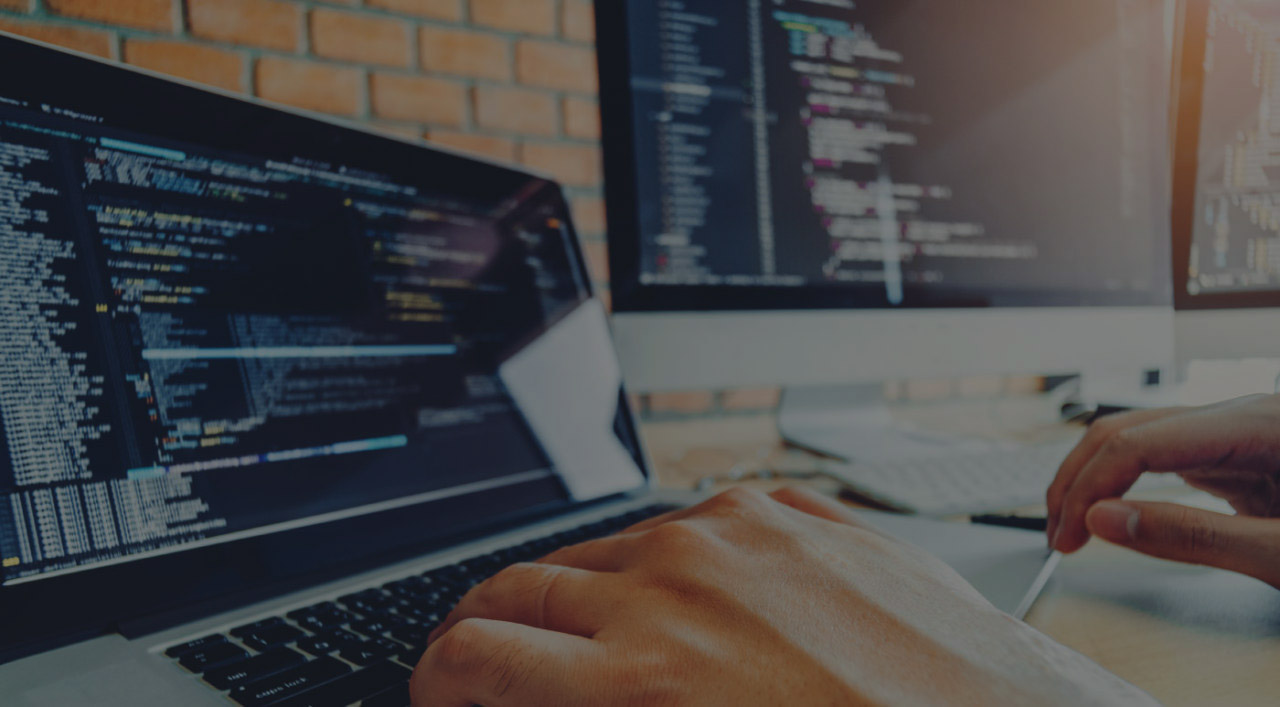
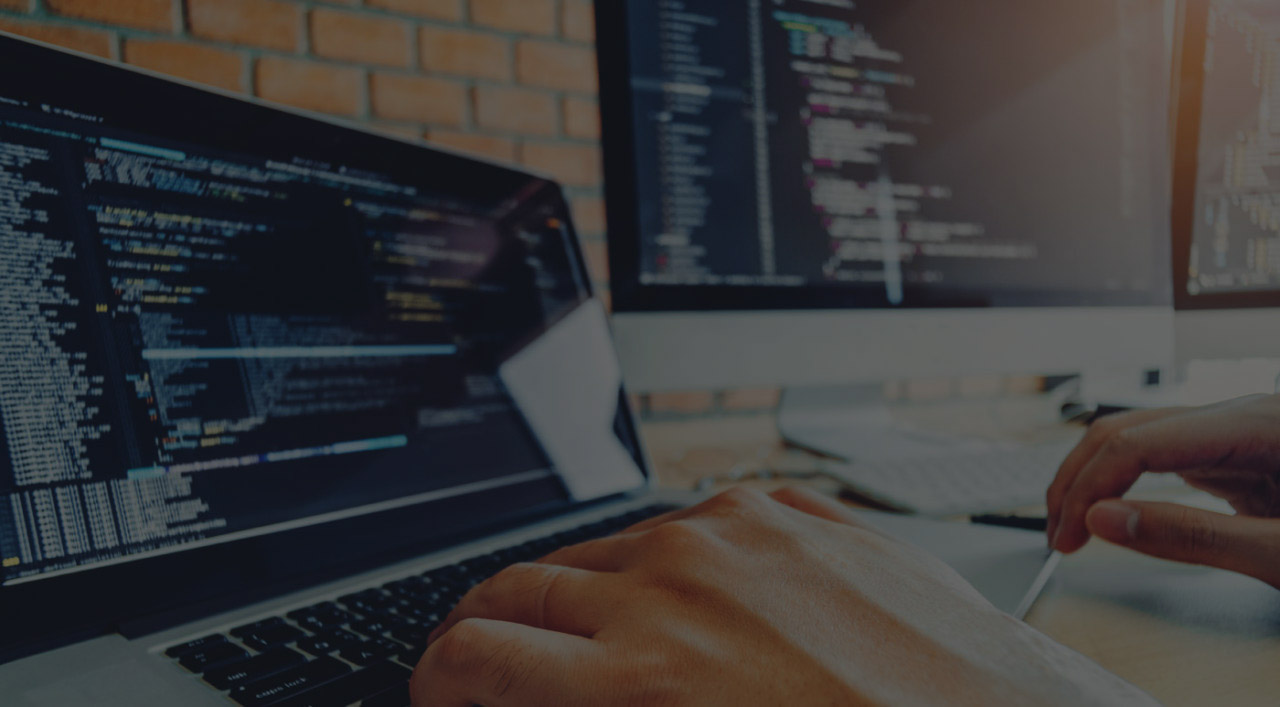
Final

diff --git a/src/components/Navbar.js b/src/components/Navbar.js
@@ -17,13 +17,8 @@ import {
   Box,
 } from "@material-ui/core";
 
-import {
-  ArrowBack,
-  AssignmentInd,
-  Home,
-  Apps,
-  ContactMail,
-} from "@material-ui/icons";
+import { AssignmentInd, Home, Apps, ContactMail } from "@material-ui/icons";
+import MenuIcon from "@material-ui/icons/Menu";
 
 import avatar from "../images/1.jpg";
 
@@ -96,9 +91,14 @@ const Navbar = () => {
         <AppBar position="fixed" style={{ background: "#222" }}>
           <Toolbar>
             <IconButton onClick={toggleSlider("right", true)}>
-              <ArrowBack style={{ color: "tomato" }} />
+              <MenuIcon style={{ color: "tomato" }} />
             </IconButton>
-            <Typography variant="h5" style={{ color: "tan" }}>
+            <Typography
+              variant="h5"
+              style={{ color: "tan" }}
+              component={Link}
+              to={"/"}
+            >
               Portfolio
             </Typography>
             <MobileRightMenuSlider

diff --git a/src/App.css b/src/App.css
@@ -1,6 +1,5 @@
 body {
-  background: linear-gradient(rgba(0, 0, 0, 1.8), rgba(0, 0, 0, 0.8)),
-    url(./images/Background.jpg) no-repeat center center fixed;
+  background: url(./images/Background.jpg) no-repeat center center fixed;
   -webkit-background-size: cover;
   -moz-background-size: cover;
   -o-background-size: cover;

diff --git a/public/index.html b/public/index.html
@@ -4,7 +4,7 @@
     <meta charset="utf-8" />
     <meta name="viewport" content="width=device-width, initial-scale=1" />
 
-    <title>React App</title>
+    <title>Ajai Portfolio</title>
   </head>
   <body>
     <noscript>You need to enable JavaScript to run this app.</noscript>

diff --git a/src/components/Header.js b/src/components/Header.js
@@ -20,6 +20,7 @@ const useStyle = makeStyles((theme) => ({
   },
   typedContainer: {
     position: "absolute",
+    marginTop: "5%",
     top: "50%",
     left: "50%",
     transform: "translate(-50%, -50%)",

diff --git a/src/components/Home.js b/src/components/Home.js
@@ -1,5 +1,4 @@
 import React from "react";
-
 import Header from "./Header";
 import Particles from "react-particles-js";
 
